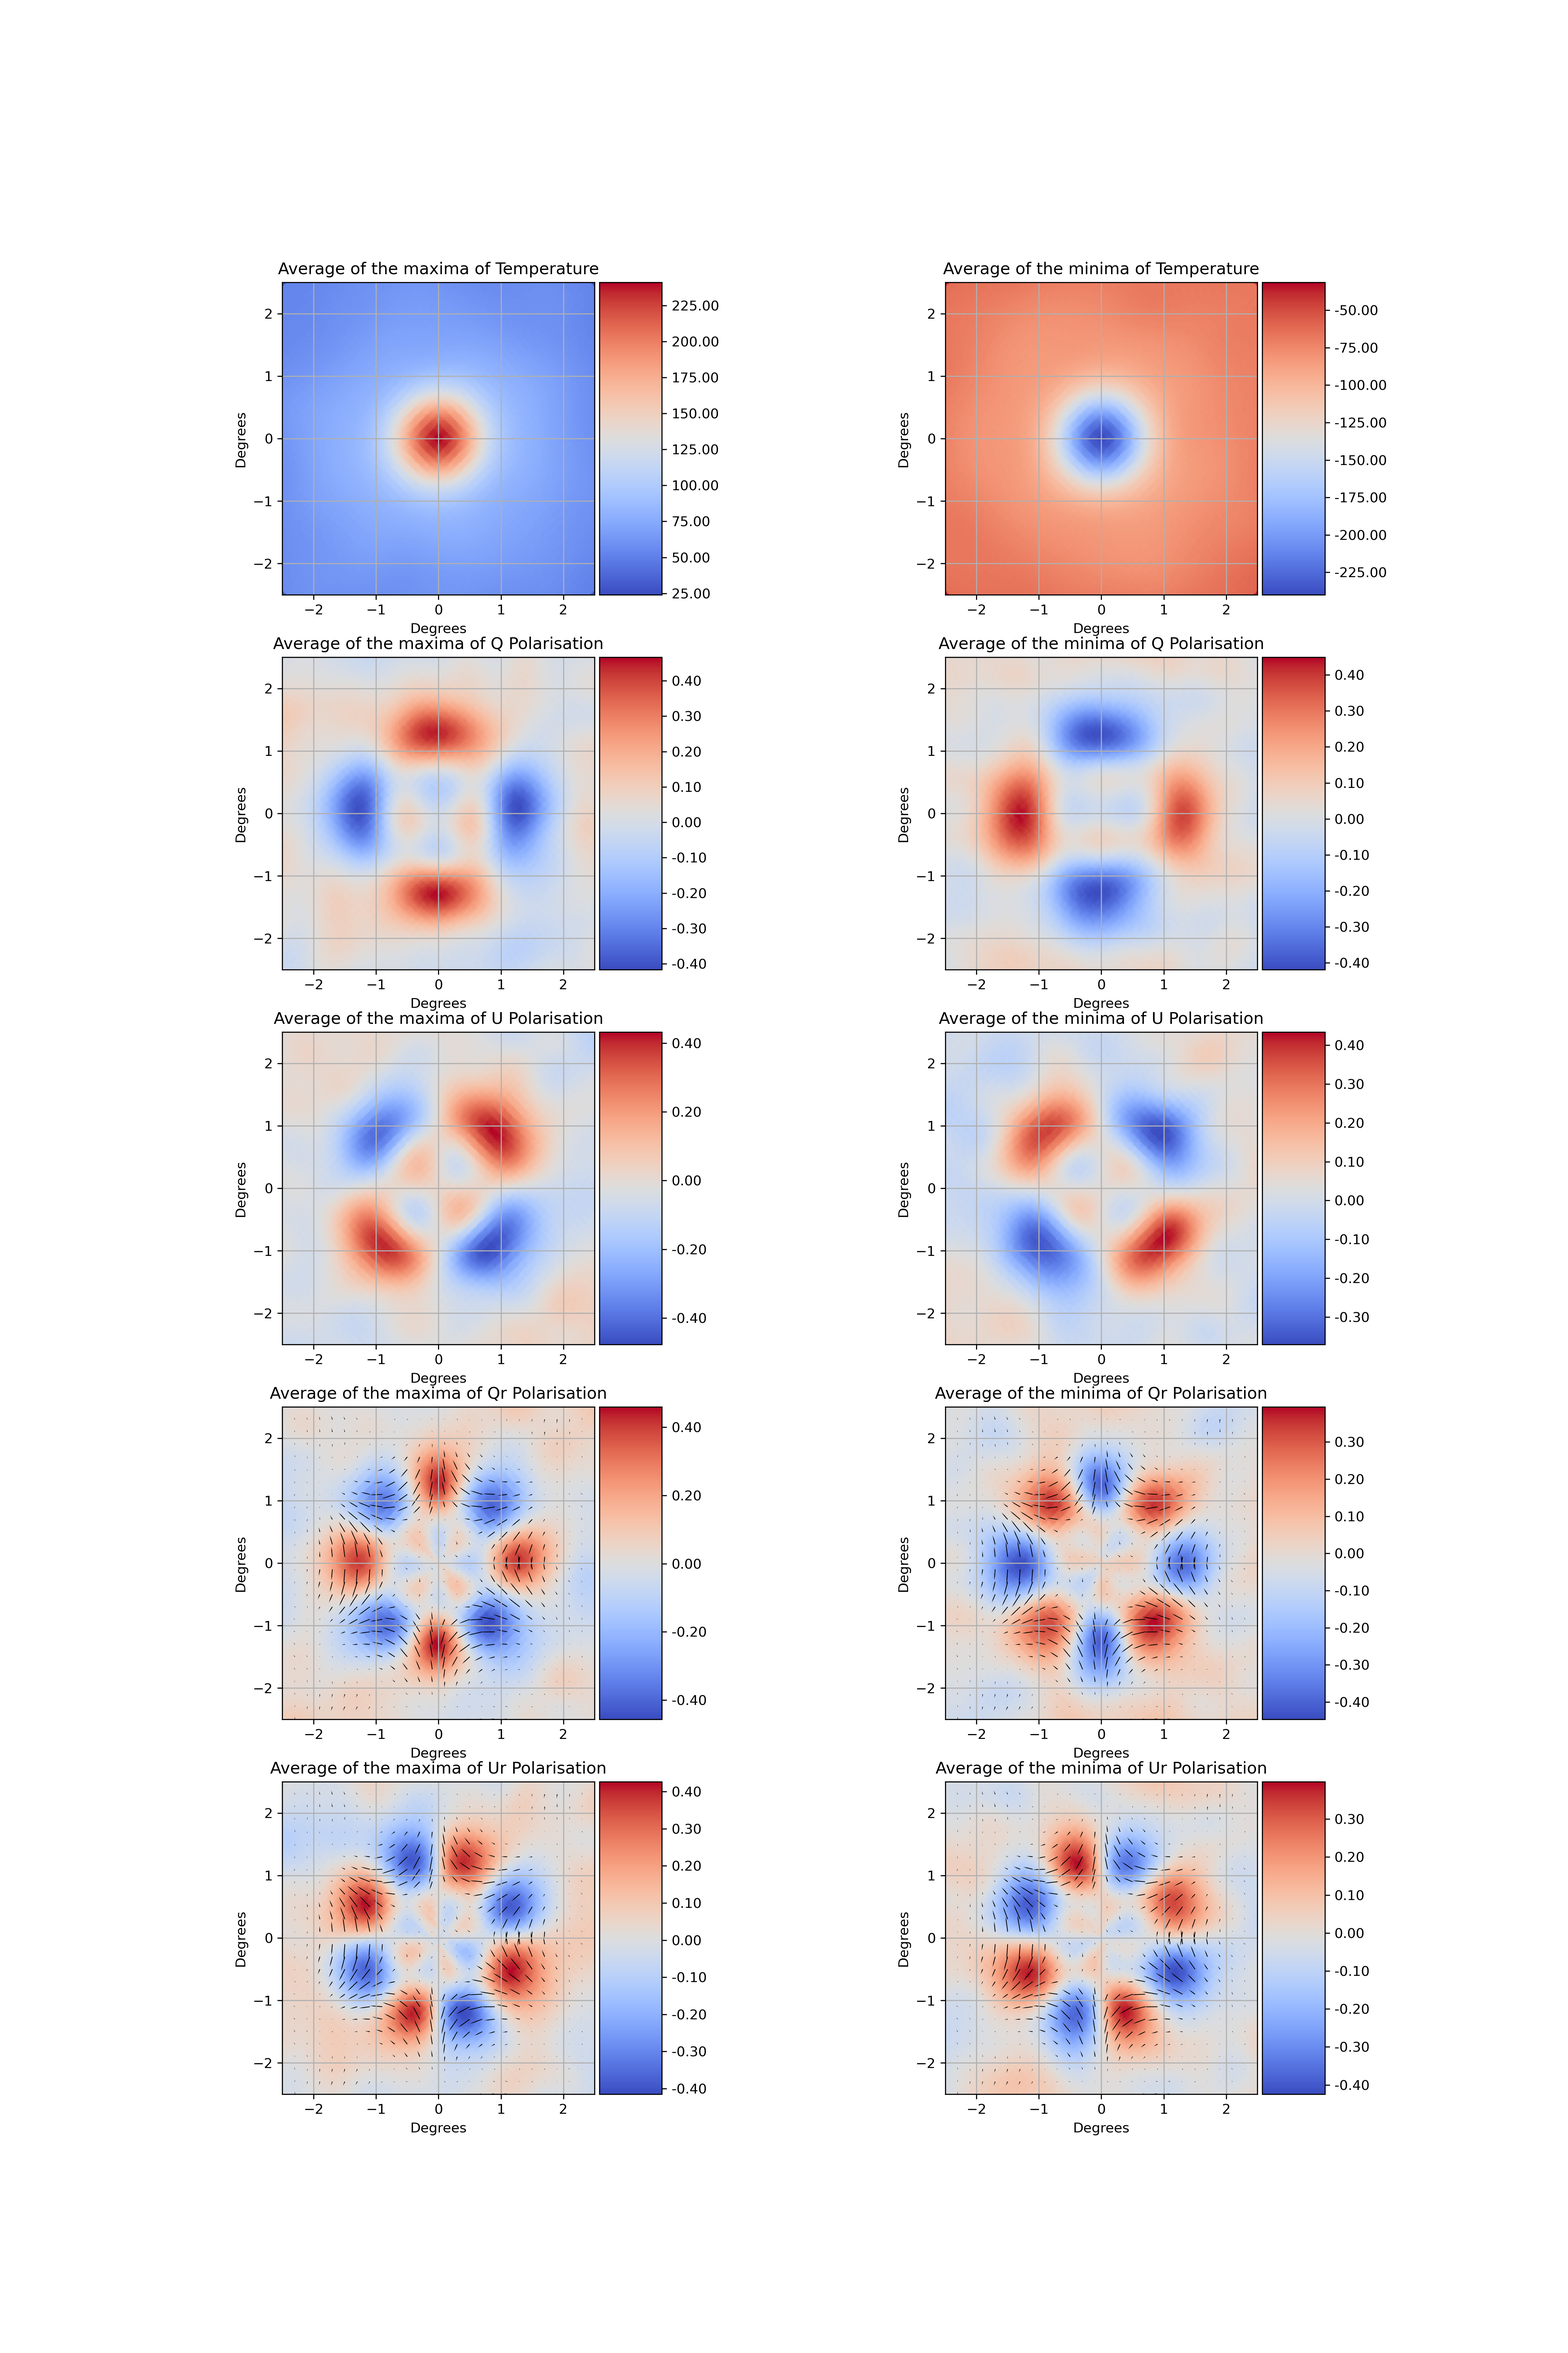
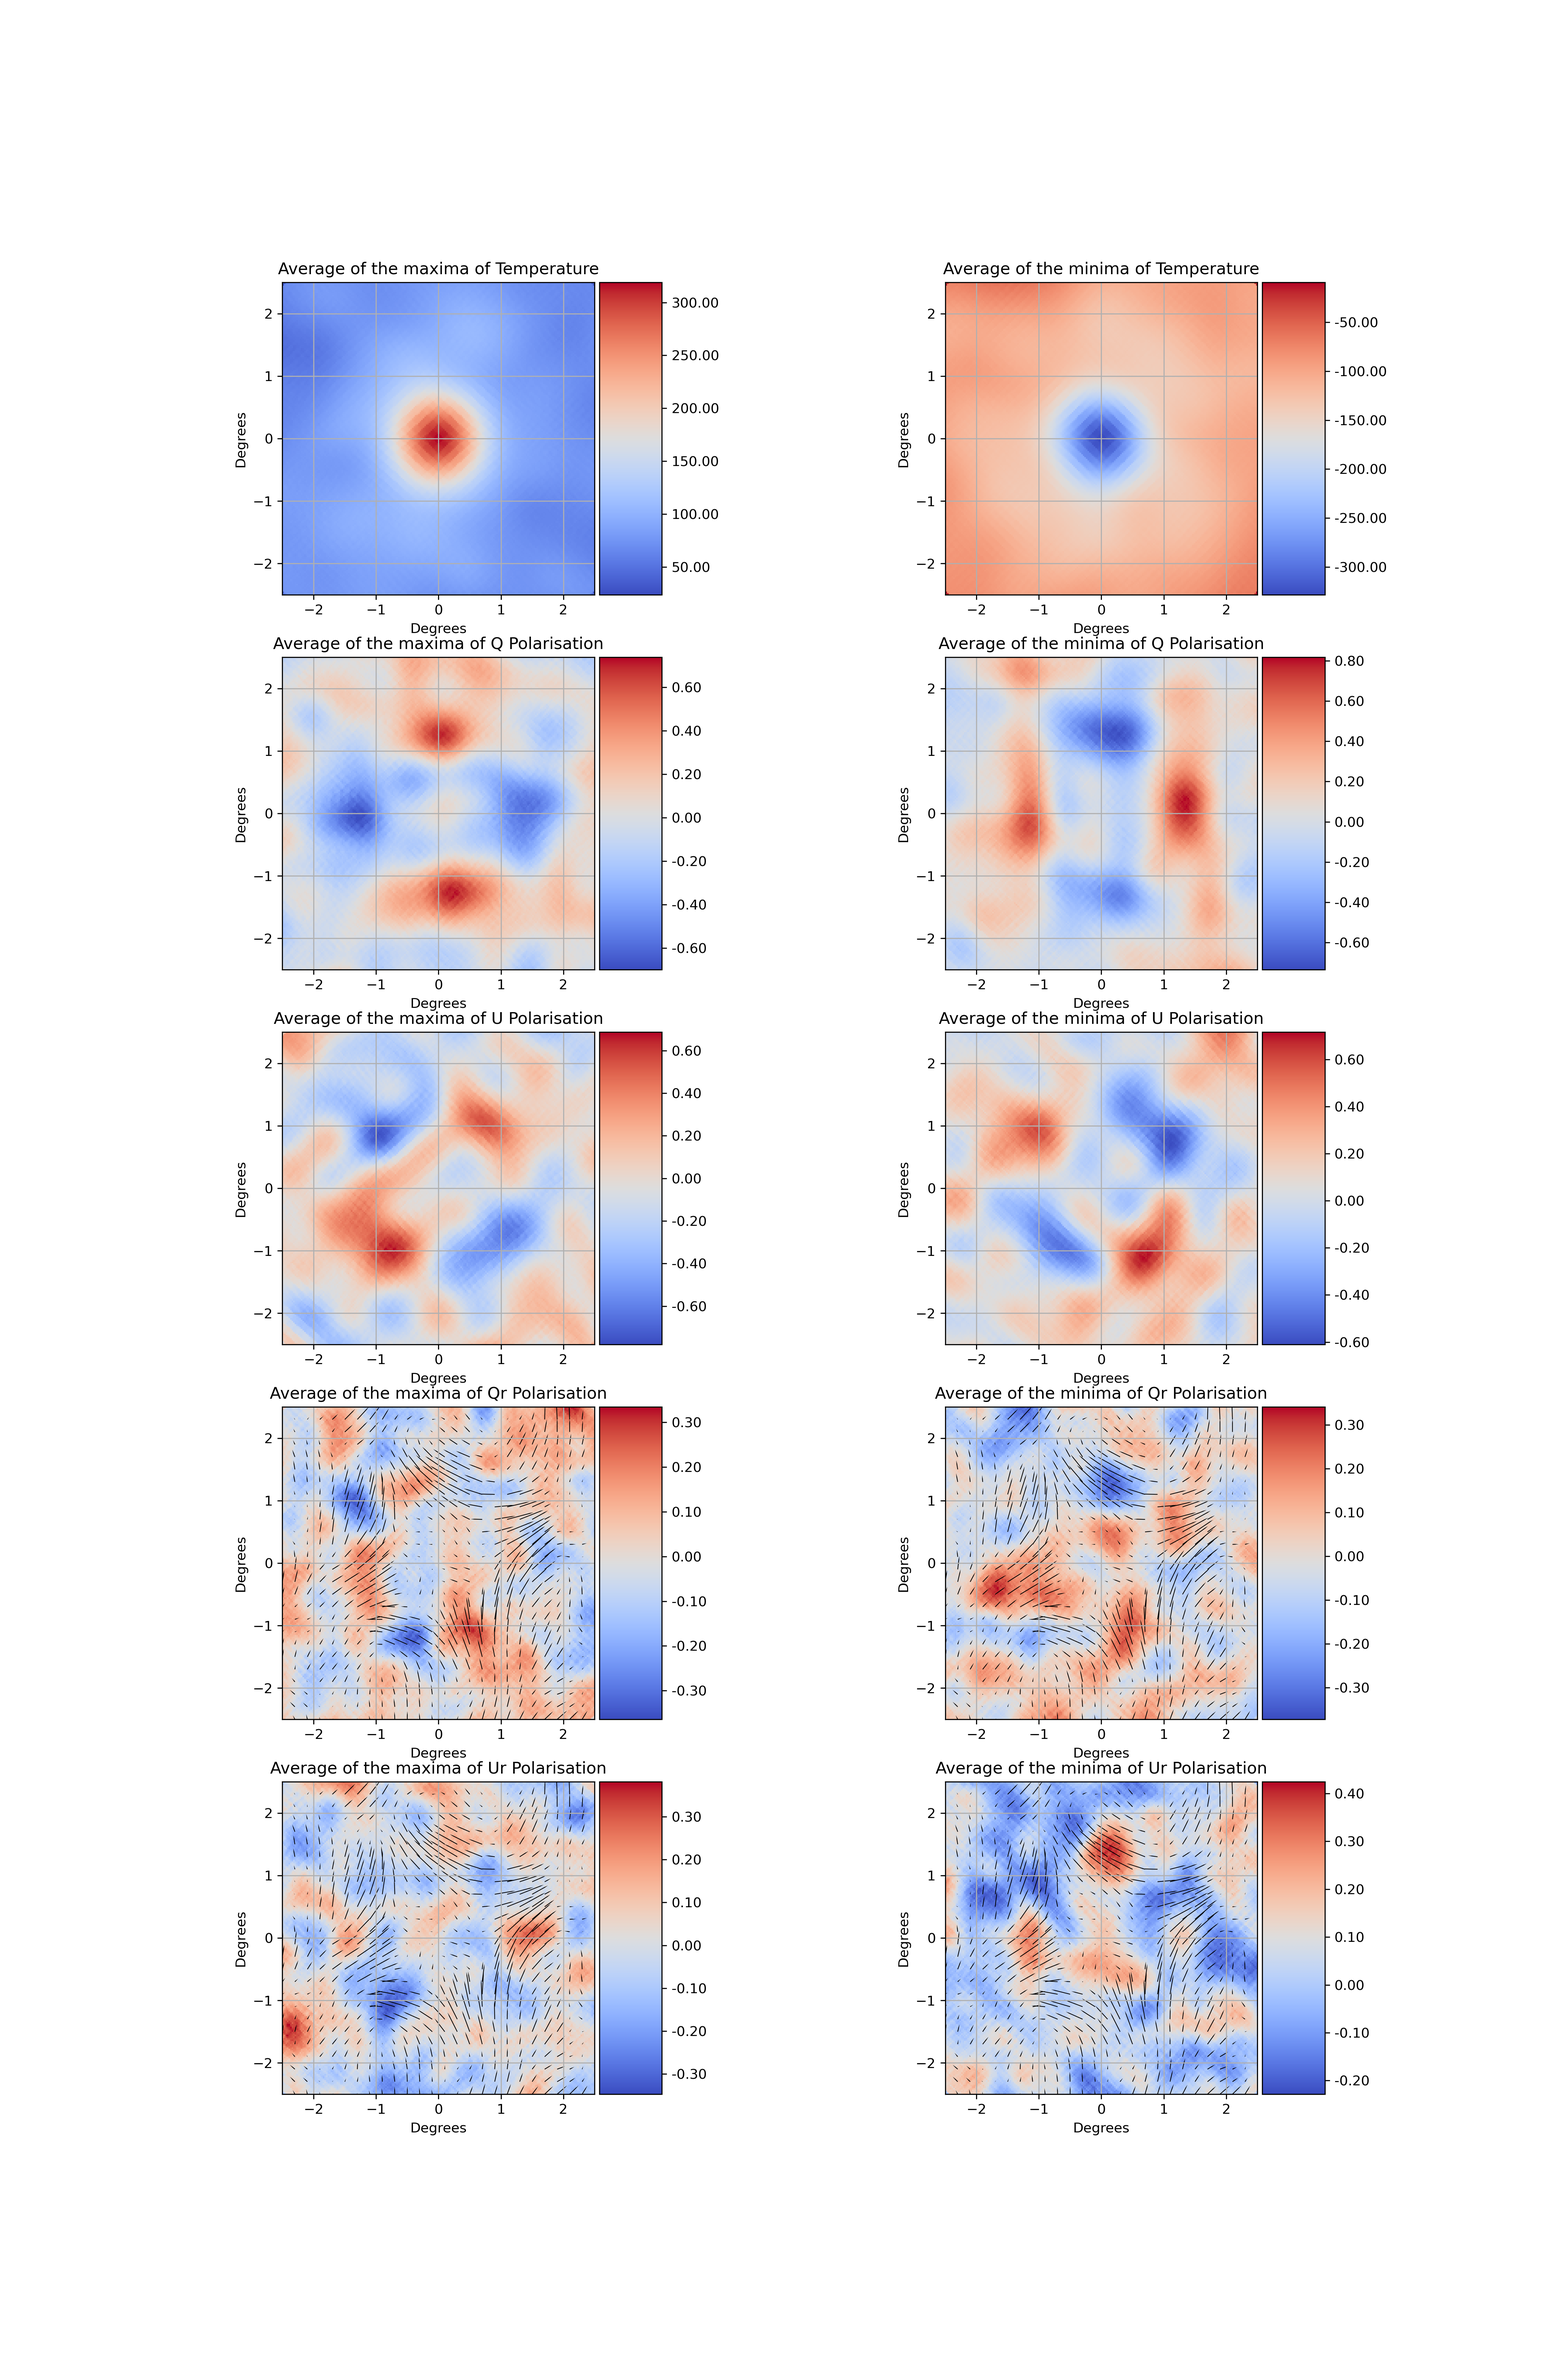
I think it's working now

diff --git a/CMB/average_finder.py b/CMB/average_finder.py
@@ -27,33 +27,30 @@ def Ur(Q, U, phi):
 
 # Convert longitude and latitude to angle from east using Numba
 @jit(nopython=True)
-def east_phi(lon_c, lat_c, lon_p, lat_p):
-    dlon = np.radians(lon_p - lon_c)
-    dlat = np.radians(lat_p - lat_c)
-    return np.arctan2(dlat, -dlon)
+def east_phi(Q, U):
+    return 0.5 * np.arctan2(Q, U)
 
 
 # Generate polarization vectors using Numba
 @jit(nopython=True)
-def pol_vec(Qr, Ur):
-    psi = 0.5 * np.arctan2(Ur, Qr) + np.pi
-    P = np.sqrt(Qr**2 + Ur**2)
-    return psi, P
+def pol_vec(Q, U):
+    P = np.sqrt(Q**2 + U**2)
+    return east_phi(Q, U), P
 
 
 # Function to create inputs for vector map
-def vectormap(step, Qr, Ur):
+def vectormap(step, Q, U):
     sample_row = np.arange(0, 200, step)
     sample_col = np.arange(0, 200, step)
-    psi, P = pol_vec(
-        Qr[np.ix_(sample_row, sample_col)],
-        Ur[np.ix_(sample_row, sample_col)],
+    phi, P = pol_vec(
+        Q[np.ix_(sample_row, sample_col)],
+        U[np.ix_(sample_row, sample_col)],
     )
     x, y = np.meshgrid(
         np.arange(-2.5, 2.5, step / 200 * 5), np.arange(-2.5, 2.5, step / 200 * 5)
     )
-    u = P * np.cos(psi)
-    v = P * np.sin(psi)
+    u = P * np.sin(phi)
+    v = P * np.cos(phi)
     return x, y, u, v
 
 
@@ -63,8 +60,8 @@ def compute_vectormaps(average, step):
     for minmax in range(2):
         x, y, ur, vr = vectormap(
             step,
-            average[minmax, 3, :, :],
-            average[minmax, 4, :, :],
+            average[minmax, 1, :, :],
+            average[minmax, 2, :, :],
         )
         x_dict[minmax] = x
         y_dict[minmax] = y
@@ -98,8 +95,7 @@ def process_peak(smooth_map, index, minmax, j, nside):
     lon, lat = hp.pix2ang(nside, index[minmax, j], lonlat=True)
     pos = hp.ang2vec(lon, lat, lonlat=True)
     neigh = hp.query_disc(nside, pos, np.radians(np.sqrt(2 * 2.5**2)))
-    neigh_lon, neigh_lat = hp.pix2ang(nside, neigh, lonlat=True)
-    phi = east_phi(lon, lat, neigh_lon, neigh_lat)
+    phi = east_phi(smooth_map[1, neigh], smooth_map[2, neigh])
     empty = np.zeros((5, hp.nside2npix(nside)))
     result = np.zeros((5, 200, 200))
     for pindx in range(5):
@@ -162,7 +158,7 @@ def stack_cmb_params(no_spots, lensing=True, nside=512):
 
 
 # Run function
-peaks = 20000
+peaks = 1000
 
 start_time = time.time()
 lensed = stack_cmb_params(peaks, lensing=True)
